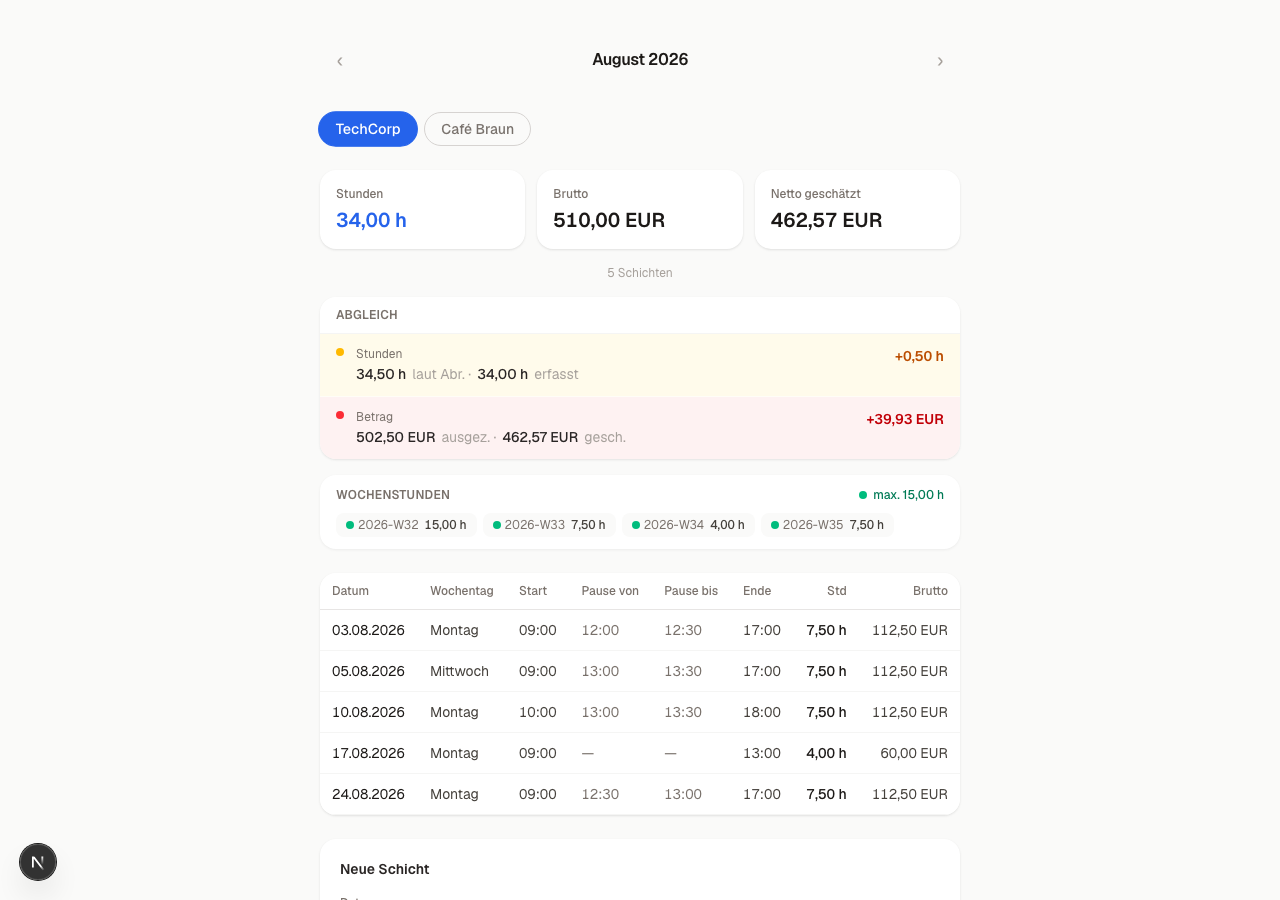
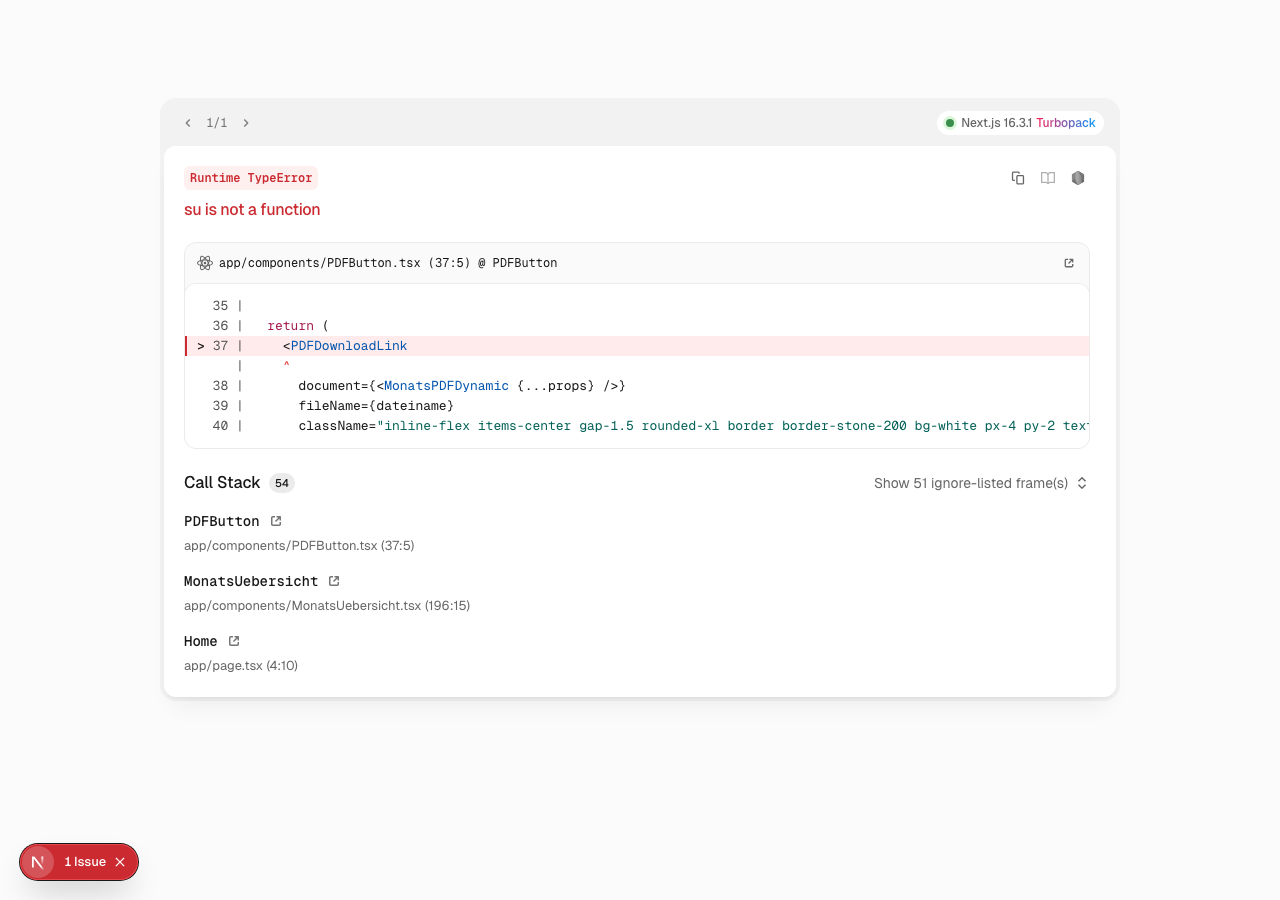
UI Step 4c: PDF-Export per Monat/Arbeitgeber
- MonatsPDF: A4-Dokument mit Header, Employer-Akzentbalken, Zusammenfassung,
  Schichttabelle (Feiertag/Sonntag/Pause-Färbung), Abgleich und Haftungshinweis
- PDFButton/PDFButtonInner: dynamic import (ssr: false) um Browser-APIs sicher
  zu isolieren; PDFDownloadLink + MonatsPDF in einem Modul
- "↓ PDF"-Button neben Schicht-Zähler, lädt TechCorp_August-2026.pdf

diff --git a/app/components/MonatsPDF.tsx b/app/components/MonatsPDF.tsx
@@ -1,0 +1,205 @@
+// React PDF Document — kein "use client" nötig, läuft nur client-side via PDFButton
+import { Document, Page, StyleSheet, Text, View } from "@react-pdf/renderer"
+import type { Abgleich, Employer, Settings, Shift } from "@/lib/types"
+import { berechneMonatsSumme, vergleicheAbgleich, type MonatsSumme } from "@/lib/calc/aggregate"
+import { berechneSchicht } from "@/lib/calc/lohn"
+import { schichtIntervall, bruttoMinuten as calcBrutto, pauseMinuten as calcPause } from "@/lib/calc/time"
+import { pruefePause } from "@/lib/calc/pause"
+import { feiertagName, istSonntag } from "@/lib/calc/holidays"
+import { parseISO } from "date-fns"
+import {
+  formatDatum,
+  formatEuroCent,
+  formatStundenDezimal,
+  formatWochentag,
+} from "@/lib/calc/format"
+import { NETTO_HINWEIS_TEXT } from "@/config/lohn"
+import type { Bundesland } from "@/lib/types"
+
+const MONATE = [
+  "Januar","Februar","März","April","Mai","Juni",
+  "Juli","August","September","Oktober","November","Dezember",
+]
+
+const s = StyleSheet.create({
+  page: { padding: 40, fontFamily: "Helvetica", fontSize: 9, color: "#1c1917" },
+  header: { flexDirection: "row", justifyContent: "space-between", marginBottom: 20 },
+  headerLeft: { flexDirection: "column" },
+  title: { fontSize: 16, fontFamily: "Helvetica-Bold", color: "#1c1917" },
+  subtitle: { fontSize: 10, color: "#78716c", marginTop: 2 },
+  accentBar: { height: 3, borderRadius: 2, marginBottom: 16 },
+  summaryRow: { flexDirection: "row", gap: 12, marginBottom: 16 },
+  summaryBox: {
+    flex: 1, borderRadius: 6, padding: 10,
+    backgroundColor: "#f5f5f4",
+  },
+  summaryLabel: { fontSize: 7, color: "#78716c", marginBottom: 3, textTransform: "uppercase" },
+  summaryValue: { fontSize: 11, fontFamily: "Helvetica-Bold" },
+  section: { marginBottom: 14 },
+  sectionTitle: {
+    fontSize: 7, textTransform: "uppercase", color: "#78716c",
+    marginBottom: 6, fontFamily: "Helvetica-Bold", letterSpacing: 0.5,
+  },
+  table: { borderRadius: 4, overflow: "hidden" },
+  tableHead: { flexDirection: "row", backgroundColor: "#f5f5f4", paddingVertical: 5, paddingHorizontal: 6 },
+  tableRow: { flexDirection: "row", paddingVertical: 5, paddingHorizontal: 6, borderBottomWidth: 0.5, borderBottomColor: "#e7e5e4" },
+  tableRowSonntag: { backgroundColor: "#f5f5f4" },
+  tableRowFeiertag: { backgroundColor: "#fef2f2" },
+  tableRowPause: { backgroundColor: "#fffbeb" },
+  thDatum: { width: 65, fontSize: 7, color: "#78716c", fontFamily: "Helvetica-Bold" },
+  thWochentag: { width: 60, fontSize: 7, color: "#78716c", fontFamily: "Helvetica-Bold" },
+  thTime: { width: 38, fontSize: 7, color: "#78716c", fontFamily: "Helvetica-Bold" },
+  thRight: { flex: 1, fontSize: 7, color: "#78716c", fontFamily: "Helvetica-Bold", textAlign: "right" },
+  tdDatum: { width: 65, fontSize: 8 },
+  tdWochentag: { width: 60, fontSize: 8, color: "#57534e" },
+  tdTime: { width: 38, fontSize: 8, color: "#57534e" },
+  tdRight: { flex: 1, fontSize: 8, textAlign: "right", fontFamily: "Helvetica-Bold" },
+  tdRightNormal: { flex: 1, fontSize: 8, textAlign: "right", color: "#57534e" },
+  abgleichRow: { flexDirection: "row", justifyContent: "space-between", paddingVertical: 4, borderBottomWidth: 0.5, borderBottomColor: "#e7e5e4" },
+  abgleichLabel: { fontSize: 8, color: "#57534e" },
+  abgleichGruen: { fontSize: 8, fontFamily: "Helvetica-Bold", color: "#059669" },
+  abgleichGelb: { fontSize: 8, fontFamily: "Helvetica-Bold", color: "#d97706" },
+  abgleichRot: { fontSize: 8, fontFamily: "Helvetica-Bold", color: "#dc2626" },
+  footer: { marginTop: "auto", paddingTop: 12, borderTopWidth: 0.5, borderTopColor: "#e7e5e4" },
+  footerText: { fontSize: 7, color: "#a8a29e" },
+})
+
+interface Props {
+  employer: Employer
+  monat: number
+  jahr: number
+  schichten: Shift[]
+  settings: Pick<Settings, "steuerklasse" | "kirchensteuer" | "kurzfristigPauschal">
+  bundesland: Bundesland
+  abgleich: Abgleich | null
+}
+
+export function MonatsPDF({ employer, monat, jahr, schichten, settings, bundesland, abgleich }: Props) {
+  const monatsSumme: MonatsSumme = berechneMonatsSumme(schichten, employer, settings)
+  const abgleichErgebnis = abgleich ? vergleicheAbgleich(monatsSumme, abgleich) : null
+
+  const zeilen = [...schichten].sort((a, b) => a.datum.localeCompare(b.datum)).map((shift) => {
+    const datum = parseISO(shift.datum)
+    const intervall = schichtIntervall(shift)
+    const { nettoMinuten, bruttoCent } = berechneSchicht(shift, employer)
+    const brutto = calcBrutto(intervall)
+    const pause = calcPause(intervall)
+    const { ausreichend } = pruefePause(brutto, pause)
+    return {
+      shift, datum,
+      feiertag: feiertagName(datum, bundesland),
+      sonntag: istSonntag(datum),
+      zuKurzePause: !ausreichend,
+      nettoMinuten, bruttoCent,
+    }
+  })
+
+  function ampelStyle(ampel: string) {
+    if (ampel === "rot") return s.abgleichRot
+    if (ampel === "gelb") return s.abgleichGelb
+    return s.abgleichGruen
+  }
+
+  return (
+    <Document title={`${employer.name} – ${MONATE[monat - 1]} ${jahr}`} author="Stundenfassen">
+      <Page size="A4" style={s.page}>
+        {/* Header */}
+        <View style={s.header}>
+          <View style={s.headerLeft}>
+            <Text style={s.title}>{employer.name}</Text>
+            <Text style={s.subtitle}>{MONATE[monat - 1]} {jahr}</Text>
+          </View>
+          <Text style={{ fontSize: 8, color: "#a8a29e", marginTop: 4 }}>Stundenfassen</Text>
+        </View>
+
+        {/* Akzent-Balken in Employer-Farbe */}
+        <View style={[s.accentBar, { backgroundColor: employer.farbe }]} />
+
+        {/* Zusammenfassung */}
+        <View style={s.summaryRow}>
+          <View style={s.summaryBox}>
+            <Text style={s.summaryLabel}>Stunden</Text>
+            <Text style={[s.summaryValue, { color: employer.farbe }]}>
+              {formatStundenDezimal(monatsSumme.nettoMinuten)}
+            </Text>
+          </View>
+          <View style={s.summaryBox}>
+            <Text style={s.summaryLabel}>Brutto</Text>
+            <Text style={s.summaryValue}>{formatEuroCent(monatsSumme.bruttoCent)}</Text>
+          </View>
+          <View style={s.summaryBox}>
+            <Text style={s.summaryLabel}>Netto (gesch.)</Text>
+            <Text style={s.summaryValue}>{formatEuroCent(monatsSumme.nettoGeschaetztCent)}</Text>
+          </View>
+        </View>
+
+        {/* Schichttabelle */}
+        <View style={s.section}>
+          <Text style={s.sectionTitle}>Schichten</Text>
+          <View style={s.table}>
+            <View style={s.tableHead}>
+              <Text style={s.thDatum}>Datum</Text>
+              <Text style={s.thWochentag}>Wochentag</Text>
+              <Text style={s.thTime}>Start</Text>
+              <Text style={s.thTime}>P.von</Text>
+              <Text style={s.thTime}>P.bis</Text>
+              <Text style={s.thTime}>Ende</Text>
+              <Text style={s.thRight}>Std</Text>
+              <Text style={s.thRight}>Brutto</Text>
+            </View>
+            {zeilen.map((z) => (
+              <View
+                key={z.shift.id}
+                style={[
+                  s.tableRow,
+                  z.feiertag ? s.tableRowFeiertag : z.sonntag ? s.tableRowSonntag : z.zuKurzePause ? s.tableRowPause : {},
+                ]}
+              >
+                <Text style={s.tdDatum}>{formatDatum(z.shift.datum)}</Text>
+                <Text style={s.tdWochentag}>{formatWochentag(z.datum, true)}</Text>
+                <Text style={s.tdTime}>{z.shift.start}</Text>
+                <Text style={s.tdTime}>{z.shift.pauseVon ?? "—"}</Text>
+                <Text style={s.tdTime}>{z.shift.pauseBis ?? "—"}</Text>
+                <Text style={s.tdTime}>{z.shift.ende}</Text>
+                <Text style={s.tdRight}>{formatStundenDezimal(z.nettoMinuten)}</Text>
+                <Text style={s.tdRight}>{formatEuroCent(z.bruttoCent)}</Text>
+              </View>
+            ))}
+          </View>
+        </View>
+
+        {/* Abgleich */}
+        {abgleich && abgleichErgebnis && (
+          <View style={s.section}>
+            <Text style={s.sectionTitle}>Abgleich</Text>
+            {abgleichErgebnis.differenzStunden !== null && (
+              <View style={s.abgleichRow}>
+                <Text style={s.abgleichLabel}>
+                  Stunden: {formatStundenDezimal(abgleich.lautAbrechnungStunden! * 60)} laut Abr. · {formatStundenDezimal(monatsSumme.nettoMinuten)} erfasst
+                </Text>
+                <Text style={ampelStyle(abgleichErgebnis.ampelStunden)}>
+                  {abgleichErgebnis.differenzStunden >= 0 ? "+" : ""}{formatStundenDezimal(Math.round(Math.abs(abgleichErgebnis.differenzStunden) * 60) * (abgleichErgebnis.differenzStunden < 0 ? -1 : 1))}
+                </Text>
+              </View>
+            )}
+            {abgleichErgebnis.differenzCent !== null && (
+              <View style={s.abgleichRow}>
+                <Text style={s.abgleichLabel}>
+                  Betrag: {formatEuroCent(abgleich.tatsaechlichAusgezahltCent!)} ausgez. · {formatEuroCent(monatsSumme.nettoGeschaetztCent)} gesch.
+                </Text>
+                <Text style={ampelStyle(abgleichErgebnis.ampelBetrag)}>
+                  {abgleichErgebnis.differenzCent >= 0 ? "+" : "−"}{formatEuroCent(Math.abs(abgleichErgebnis.differenzCent))}
+                </Text>
+              </View>
+            )}
+          </View>
+        )}
+
+        {/* Footer */}
+        <View style={s.footer}>
+          <Text style={s.footerText}>{NETTO_HINWEIS_TEXT}</Text>
+        </View>
+      </Page>
+    </Document>
+  )
+}

diff --git a/app/components/MonatsUebersicht.tsx b/app/components/MonatsUebersicht.tsx
@@ -10,6 +10,7 @@ import { SchichtTabelle } from "./SchichtTabelle"
 import { SchnellEingabe } from "./SchnellEingabe"
 import { AbgleichAnzeige } from "./AbgleichAnzeige"
 import { WarnungsAnzeige } from "./WarnungsAnzeige"
+import { PDFButton } from "./PDFButton"
 
 const MONATE = [
   "Januar", "Februar", "März", "April", "Mai", "Juni",
@@ -37,6 +38,7 @@ export default function MonatsUebersicht() {
   const [bundesland, setBundesland] = useState<Bundesland>("BY")
   const [abgleichMap, setAbgleichMap] = useState<Map<string, Abgleich>>(new Map())
   const [jahresSchichten, setJahresSchichten] = useState<Shift[]>([])
+  const [settings, setSettings] = useState<Pick<Settings, "steuerklasse" | "kirchensteuer" | "kurzfristigPauschal">>(FALLBACK_SETTINGS)
   const [laedt, setLaedt] = useState(true)
   const [version, setVersion] = useState(0)
 
@@ -62,7 +64,7 @@ export default function MonatsUebersicht() {
         if (abgebrochen) return
 
         const aktiveEmps = emps.filter((e) => !e.archiviert)
-        const settings: Pick<Settings, "steuerklasse" | "kirchensteuer" | "kurzfristigPauschal"> =
+        const geladeneSettings: Pick<Settings, "steuerklasse" | "kirchensteuer" | "kurzfristigPauschal"> =
           cfg ?? FALLBACK_SETTINGS
 
         const ergebnis: EmployerSumme[] = aktiveEmps.map((employer) => ({
@@ -70,7 +72,7 @@ export default function MonatsUebersicht() {
           summe: berechneMonatsSumme(
             schichten.filter((s) => s.employerId === employer.id),
             employer,
-            settings,
+            geladeneSettings,
           ),
         }))
 
@@ -78,6 +80,7 @@ export default function MonatsUebersicht() {
         setSchichten(schichten)
         setAbgleichMap(new Map(abgleichListe.map((a) => [a.employerId, a])))
         setJahresSchichten(jahresSch)
+        setSettings(geladeneSettings)
         if (cfg?.bundesland) setBundesland(cfg.bundesland)
         setAktivId((prev) =>
           prev && aktiveEmps.some((e) => e.id === prev) ? prev : (aktiveEmps[0]?.id ?? null),
@@ -184,11 +187,22 @@ export default function MonatsUebersicht() {
                 klasse="col-span-2 sm:col-span-1"
               />
             </div>
-            <p className="text-center text-xs text-stone-400">
-              {aktivSumme.summe.anzahlSchichten === 0
-                ? "Keine Schichten in diesem Monat"
-                : `${aktivSumme.summe.anzahlSchichten} Schicht${aktivSumme.summe.anzahlSchichten === 1 ? "" : "en"}`}
-            </p>
+            <div className="flex items-center justify-between mt-1">
+              <p className="text-xs text-stone-400">
+                {aktivSumme.summe.anzahlSchichten === 0
+                  ? "Keine Schichten in diesem Monat"
+                  : `${aktivSumme.summe.anzahlSchichten} Schicht${aktivSumme.summe.anzahlSchichten === 1 ? "" : "en"}`}
+              </p>
+              <PDFButton
+                employer={aktivSumme.employer}
+                monat={monat}
+                jahr={jahr}
+                schichten={schichten.filter((s) => s.employerId === aktivId)}
+                settings={settings}
+                bundesland={bundesland}
+                abgleich={aktivId ? (abgleichMap.get(aktivId) ?? null) : null}
+              />
+            </div>
 
             <AbgleichAnzeige
               monatsSumme={aktivSumme.summe}

diff --git a/app/components/PDFButtonInner.tsx b/app/components/PDFButtonInner.tsx
@@ -1,0 +1,41 @@
+"use client"
+
+// Direkter Import — diese Datei wird nur client-seitig geladen (via dynamic in PDFButton)
+import { PDFDownloadLink } from "@react-pdf/renderer"
+import type { Abgleich, Employer, Settings, Shift } from "@/lib/types"
+import type { Bundesland } from "@/lib/types"
+import { MonatsPDF } from "./MonatsPDF"
+
+const MONATE = [
+  "Januar","Februar","März","April","Mai","Juni",
+  "Juli","August","September","Oktober","November","Dezember",
+]
+
+export interface PDFButtonProps {
+  employer: Employer
+  monat: number
+  jahr: number
+  schichten: Shift[]
+  settings: Pick<Settings, "steuerklasse" | "kirchensteuer" | "kurzfristigPauschal">
+  bundesland: Bundesland
+  abgleich: Abgleich | null
+}
+
+export default function PDFButtonInner(props: PDFButtonProps) {
+  const { employer, monat, jahr } = props
+  const dateiname = `${employer.name.replace(/\s+/g, "-")}_${MONATE[monat - 1]}-${jahr}.pdf`
+
+  return (
+    <PDFDownloadLink
+      document={<MonatsPDF {...props} />}
+      fileName={dateiname}
+      style={{ textDecoration: "none" }}
+    >
+      {({ loading }) => (
+        <span className="inline-flex items-center gap-1.5 rounded-xl border border-stone-200 bg-white px-3 py-1.5 text-xs font-medium text-stone-600 shadow-[0_1px_2px_rgba(0,0,0,0.05)] hover:bg-stone-50 hover:border-stone-300 active:scale-95 transition-all duration-100 cursor-pointer select-none">
+          {loading ? "…" : "↓ PDF"}
+        </span>
+      )}
+    </PDFDownloadLink>
+  )
+}

diff --git a/app/components/PDFButton.tsx b/app/components/PDFButton.tsx
@@ -1,0 +1,11 @@
+"use client"
+
+import dynamic from "next/dynamic"
+import type { PDFButtonProps } from "./PDFButtonInner"
+
+// SSR ausschalten — react-pdf nutzt Browser-APIs (canvas, Blob)
+const PDFButtonInner = dynamic(() => import("./PDFButtonInner"), { ssr: false })
+
+export function PDFButton(props: PDFButtonProps) {
+  return <PDFButtonInner {...props} />
+}
